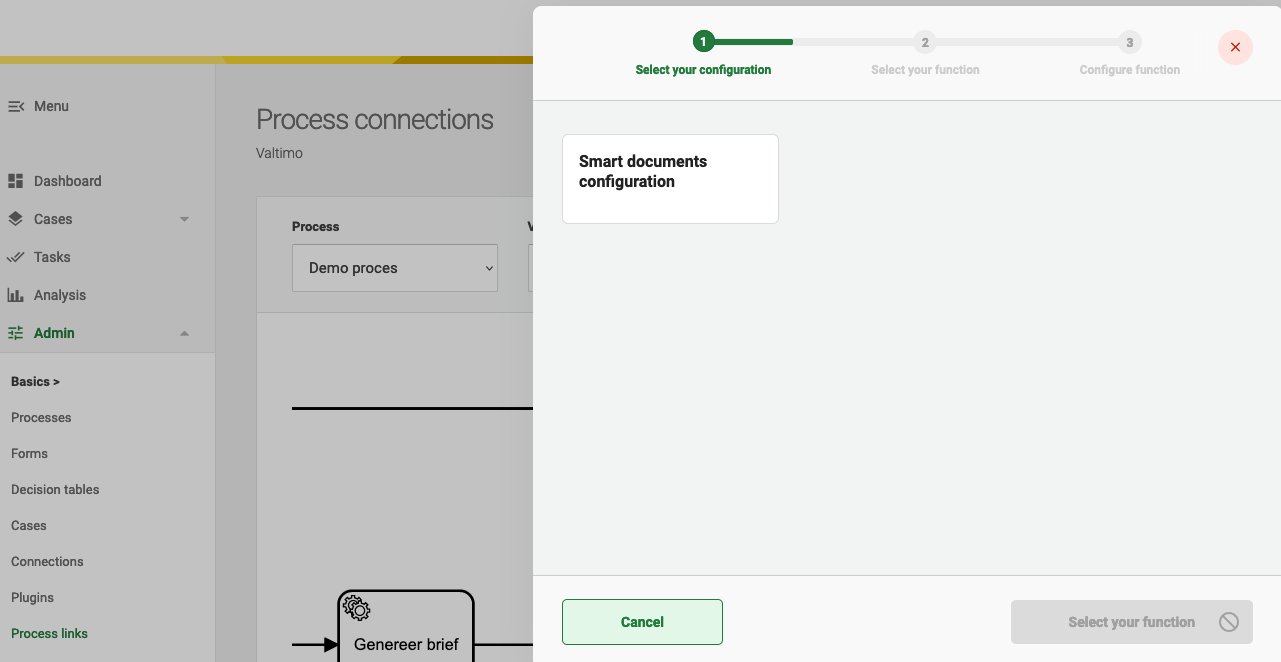
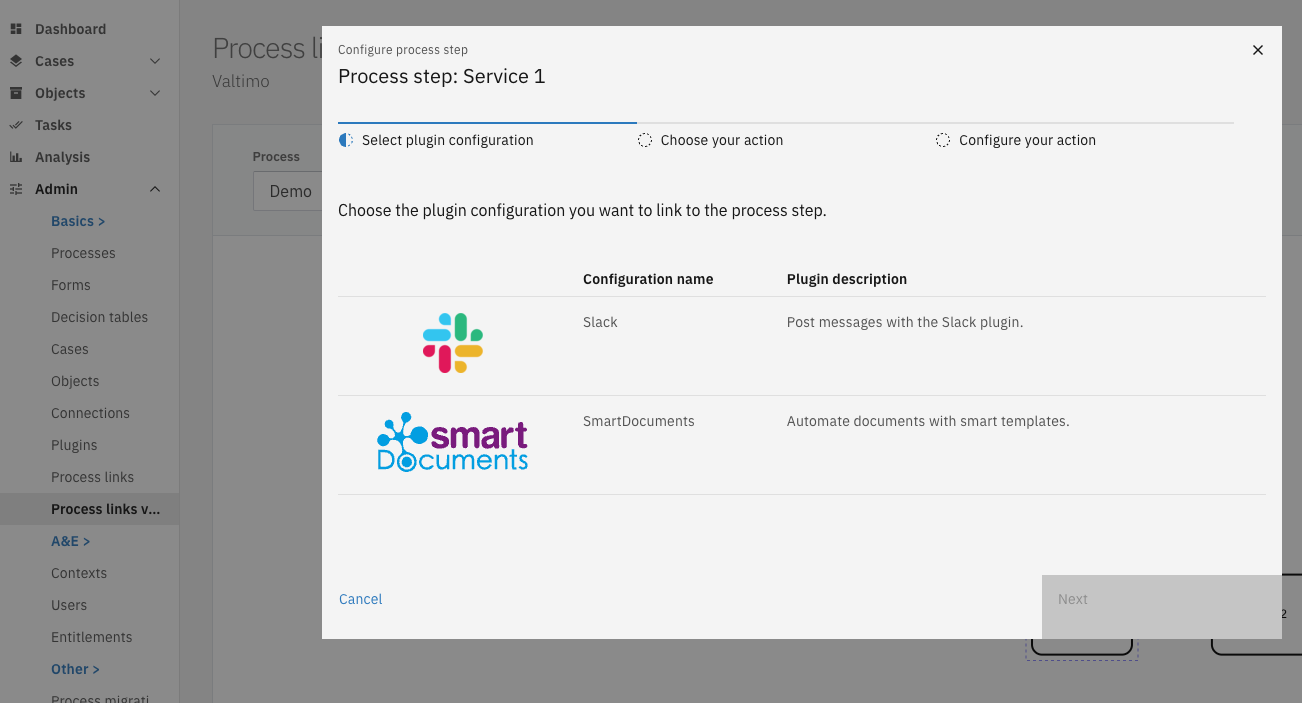
Feature/60461 edit/unlink process link (#359)
* Plugin configuration autodeployment

* Adjusted documentation on editing & unlinking processlinks

diff --git a/release-notes/major9/09.20.0/valtimo-frontend-libraries.md b/release-notes/major9/09.20.0/valtimo-frontend-libraries.md
@@ -16,10 +16,10 @@ The following features were added:
   This feature is experimental, please refer to the known issues before considering to enable it. To make this work, add 
   the following to the `scripts` array in your `angular.json` file: `"node_modules/dmn-js/dist/dmn-modeler.development.js"`.
 
-* **Deleting process links**
+* **Unlink process links**
 
-  Process links that were saved, can now also be deleted. More information on deleting process links can be
-  found [here](../../../using-valtimo/plugin/delete-process-link.md).
+  Process links that were saved, can now also be deleted. More information on unlinking process links can be
+  found [here](../../../using-valtimo/process-link/unlink-process-link.md).
 
 * **Option to configure extra tabs for object type**
 

diff --git a/using-valtimo/process-link/edit-process-link.md b/using-valtimo/process-link/edit-process-link.md
@@ -1,0 +1,18 @@
+# Editing a process link
+
+Process links that have been attached to Camunda activities, can also be edited. Admin privileges are required to
+configure
+process links.
+
+1. Go to the Admin menu
+2. Go to the 'Process links v2 (beta)' menu
+3. Select the activity of the desired process.
+4. Change the settings using the provided form
+5. Save the new configuration by clicking 'Complete'
+
+> Note: It is not possible cannot change the type of existing process links (form, form-flow or plugin), nor is it
+> possible to change the selected plugin configuration.
+> To do that, please [unlink](unlink-process-link.md) the current process link
+> and [create a new one](create-process-link.md).
+
+![Unlink a process link](img/edit-process-link.png)

diff --git a/SUMMARY.md b/SUMMARY.md
@@ -101,7 +101,8 @@
     * [Correlating messages](using-valtimo/process/correlating-messages.md)
   * [Process links](using-valtimo/process-link/process-link.md)
     * [Create process links](using-valtimo/process-link/create-process-link.md)
-    * [Delete process links](using-valtimo/process-link/delete-process-link.md)
+    * [Edit process links](using-valtimo/process-link/edit-process-link.md)
+    * [Unlink process links](using-valtimo/process-link/unlink-process-link.md)
 
   * [Upload](using-valtimo/upload/upload.md)
     * [Uploading to Documenten API with metadata](using-valtimo/upload/upload-to-documenten-api-with-metadata.md)

diff --git a/using-valtimo/plugin/plugins.md b/using-valtimo/plugin/plugins.md
@@ -5,8 +5,6 @@ Plugins are used by Valtimo to extend functionality and to make connections to e
 This sections contains information on how plugins can be created, configured and used.
 
 * [Configure Plugin](configure-plugin.md)
-* [Creating a process link](create-process-link.md)
-* [Deleting a process link](delete-process-link.md)
 ---
 * [Catalogi API plugin](catalogi-api/configure-catalogi-api-plugin.md)
 * [SmartDocuments plugin](smartdocuments/configure-smartdocuments-plugin.md)

diff --git a/using-valtimo/process-link/unlink-process-link.md b/using-valtimo/process-link/unlink-process-link.md
@@ -1,0 +1,11 @@
+# Unlink a process link
+
+Process links that have been attached to Camunda activities, can also be unlinked (deleted). Admin privileges are required to configure
+process links.
+
+1. Go to the Admin menu
+2. Go to the 'Process links v2 (beta)' menu
+3. Select the activity of the desired process.
+4. Click the 'Unlink' button
+
+![Unlink a process link](img/edit-process-link.png)
